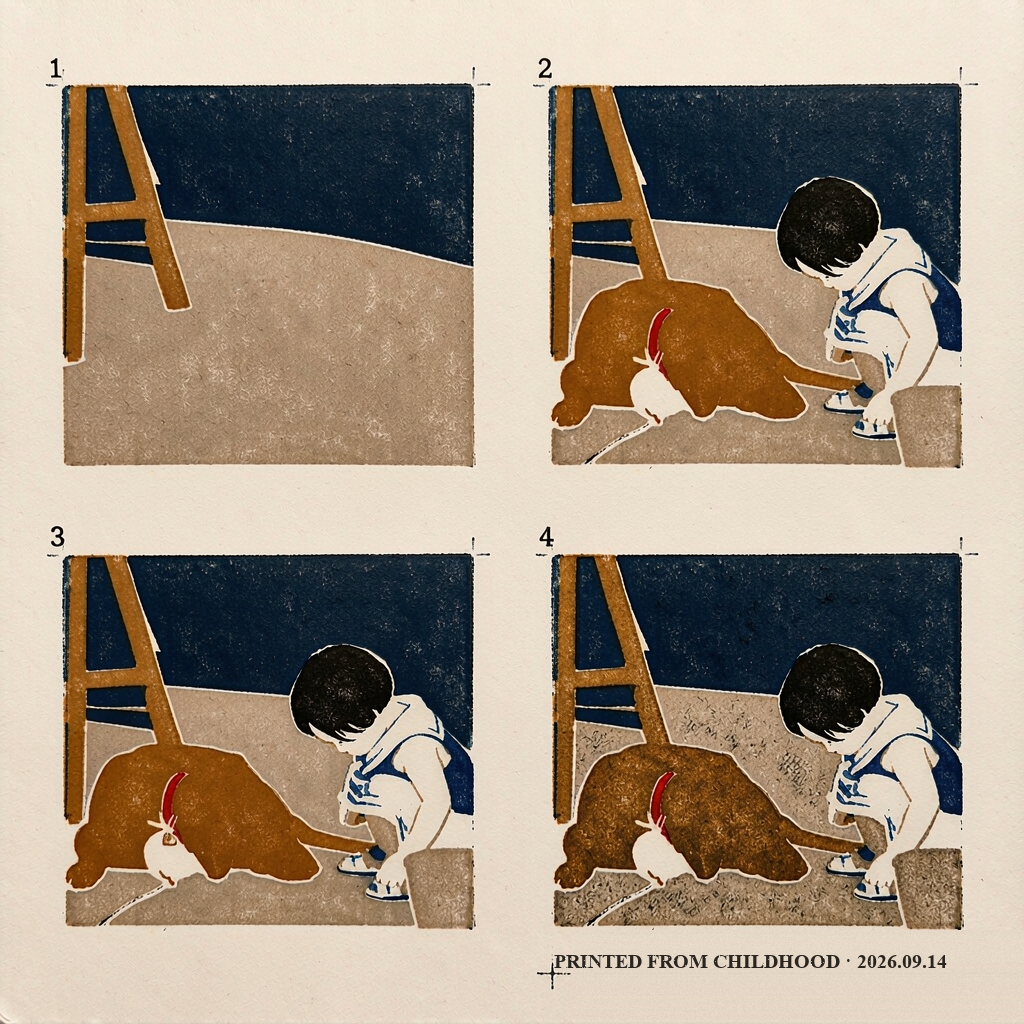
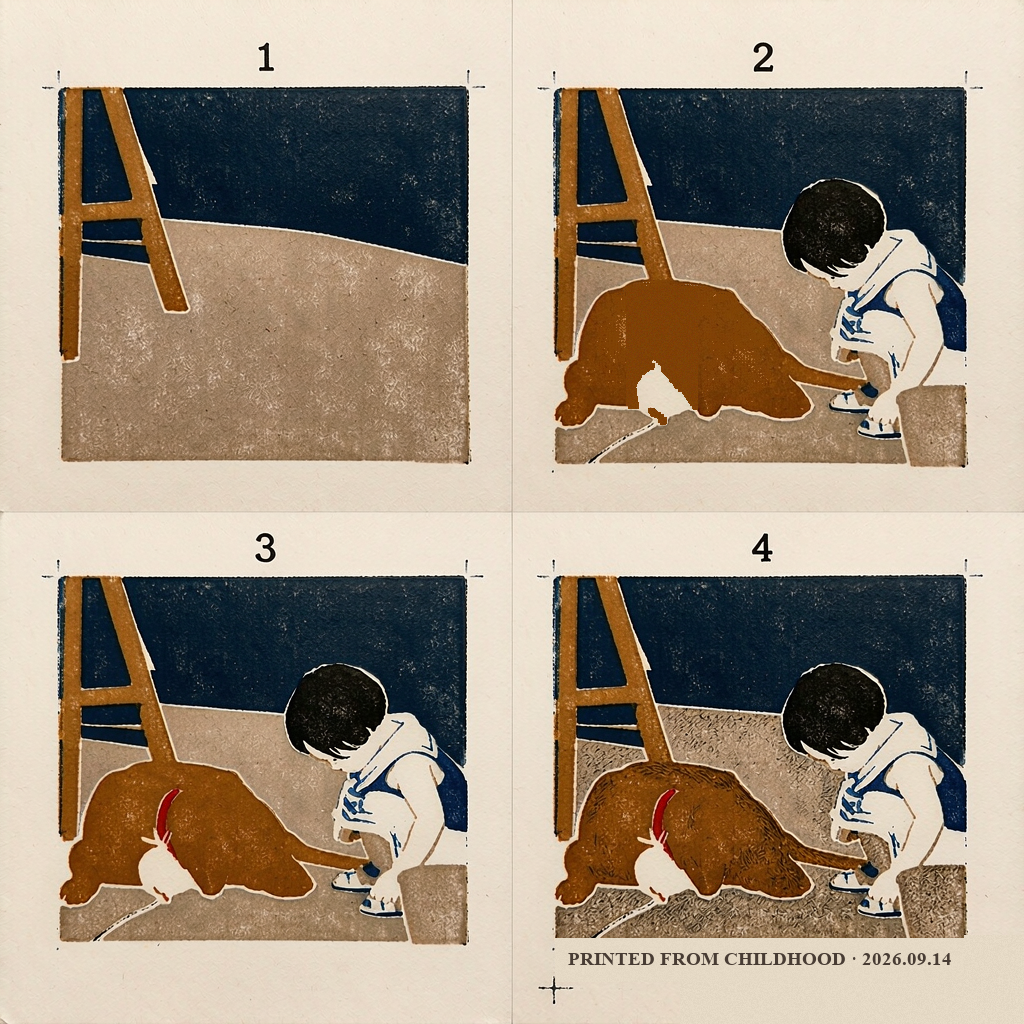
Sample 2: add source photo, replace steps with re-rolled v10
User judged the first steps roll not good enough; re-rolled with the
plain museum-stamp-set framing plus overprint/deepening-pass rules.
New roll: collar first appears in stage 3 (early leak removed at the
code layer), stage 4 is a same-ink deepening pass, caption redrawn
with Pillow. Repo now shows the full source -> finished -> steps
triptych.

diff --git a/README.md b/README.md
@@ -50,7 +50,7 @@ Combine freely: "landscape, oily, finished stamp only" · "dry proof sheet" · "
 | 示例 Example | 模式组合 Mode combo |
 |---|---|
 | 上方三联图 triptych above | proof sheet · 中性 Neutral · 方形 square |
-| 示例 2 双联图 sample 2 · dog | proof sheet · 油性 Oily · 方形 square |
+| 示例 2 三联图 sample 2 · dog | proof sheet · 油性 Oily · 方形 square |
 | 风格表·干性 style table · Dry | finished stamp · 干性 Dry · 方形 square |
 | 风格表·油性 style table · Oily | finished stamp · 油性 Oily · 方形 square |
 
